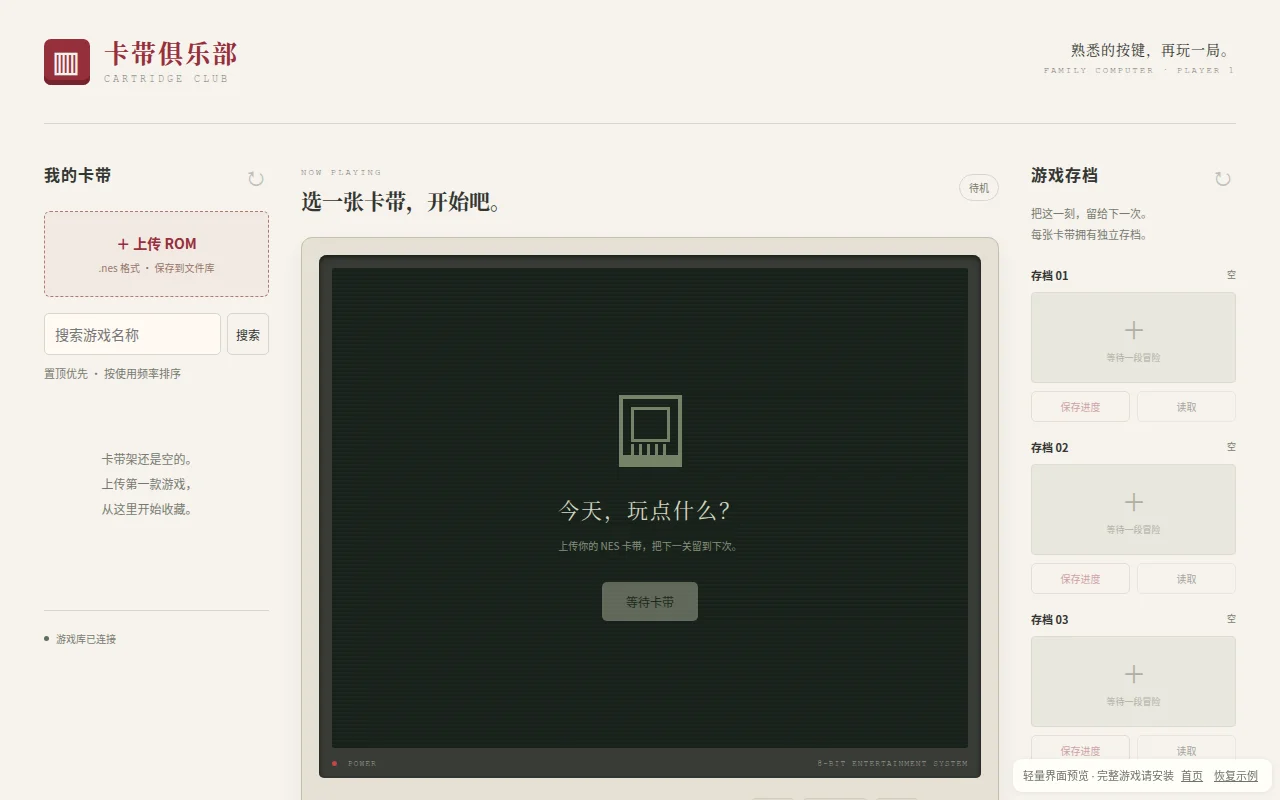
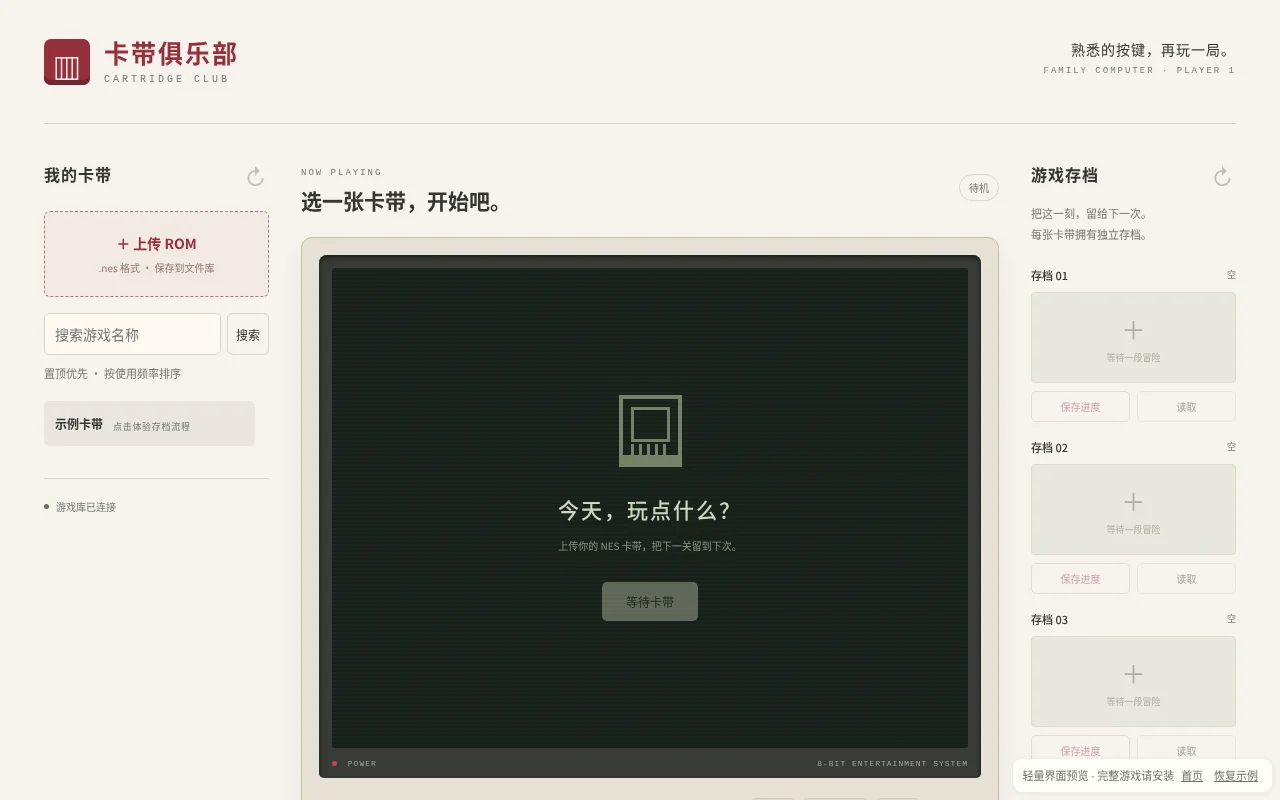
Add cartridge club template

diff --git a/7a07f36858d3a41ce3c6423b/showcase/preview.html b/7a07f36858d3a41ce3c6423b/showcase/preview.html
@@ -35,4 +35,20 @@
 <label id="rename-label">\u6E38\u620F\u540D\u79F0<input id="rename-title" required="" value=""></label>
 <p id="dialog-error" role="alert"></p><div class="dialog-actions"><button type="button" id="dialog-cancel">\u53D6\u6D88</button><button id="dialog-submit">\u4FDD\u5B58\u540D\u79F0</button></div>
 </form></dialog></div>`,bodyClass:""}},actions:{},images:{}};let screen="home",saved={},records=[],note={title:"\u5468\u672B\u7684\u5C0F\u8BA1\u5212",body:"\u53BB\u901B\u4E00\u5BB6\u4E66\u5E97\uFF0C\u518D\u627E\u4E2A\u5730\u65B9\u559D\u676F\u5496\u5561\u3002"},editing=!1,timer=null,seconds=1500;const $=e=>document.querySelector(e),esc=e=>String(e).replace(/[&<>"']/g,t=>({"&":"&amp;","<":"&lt;",">":"&gt;",'"':"&quot;","'":"&#39;"})[t]);function initialNotes(){return[{id:"weekend",title:"\u5468\u672B\u7684\u5C0F\u8BA1\u5212",body:"\u53BB\u901B\u4E00\u5BB6\u4E66\u5E97\uFF0C\u518D\u627E\u4E2A\u5730\u65B9\u559D\u676F\u5496\u5561\u3002",folder:"\u751F\u6D3B",pinned:!0},{id:"ideas",title:"\u60F3\u505A\u7684\u5C0F\u5DE5\u5177",body:"\u8BB0\u4E0B\u7075\u5149\u4E00\u95EA\u7684\u60F3\u6CD5\u3002\u8BD5\u7740\u7F16\u8F91\u8FD9\u7BC7\u7B14\u8BB0\uFF0C\u6216\u8005\u65B0\u5EFA\u4E00\u7BC7\u3002",folder:"\u5DE5\u4F5C",pinned:!1}]}let notes=initialNotes();note=notes[0];function updateNotes(){const e=$("#note-cards");if(!e)return;const t=$("#note-search")?.value.toLowerCase()||"",i=notes.filter(n=>(screen==="\u7F6E\u9876\u7B14\u8BB0"?n.pinned:["\u751F\u6D3B","\u5DE5\u4F5C","\u7075\u611F"].includes(screen)?n.folder===screen:!0)&&(n.title+n.body).toLowerCase().includes(t)).sort((n,a)=>Number(a.pinned)-Number(n.pinned));e.innerHTML=i.map(n=>`<button class="note-card" data-note="${esc(n.id)}"><strong>${n.pinned?"\u2311 ":""}${esc(n.title)}</strong><p>${esc(n.body)}</p><small>${esc(n.folder)} \xB7 \u672C\u9875\u793A\u4F8B</small></button>`).join(""),$("#note-count")&&($("#note-count").textContent=i.length+" \u7BC7\u7B14\u8BB0")}function imageSources(){document.querySelectorAll("[data-preview-image]").forEach(e=>e.src=preview.images[e.dataset.previewImage])}function draw(e="home"){screen=e;const t=preview.states[e]||preview.states.home;document.body.className=t.bodyClass,document.body.innerHTML=saved[e]||t.html,imageSources();for(const a of document.querySelectorAll("canvas"))if(preview.images.scene){const s=new Image;s.onload=()=>{a.width=s.width,a.height=s.height,a.getContext("2d")?.drawImage(s,0,0)},s.src=preview.images.scene}if(preview.name==="neon-coast"){const a=$("#start");a&&(a.disabled=!1,a.textContent="\u67E5\u770B\u9A7E\u9A76\u6307\u5357 \u2197");const s=$("#save-status");s&&(s.textContent="\u8F7B\u91CF\u754C\u9762\u9884\u89C8")}preview.name==="notes"&&$("#note-title")&&($("#note-title").value=note.title,$("#note-body").value=note.body),preview.name==="notes"&&updateNotes(),records.length&&screen!=="new"&&renderRecords(),document.querySelectorAll("dialog[open]").forEach(a=>{a.removeAttribute("open"),a.showModal()});const i=document.createElement("div");i.id="preview-tools",i.style.cssText="position:fixed;z-index:2147483647;bottom:8px;right:8px;padding:7px 10px;border-radius:9px;background:#fffef8f5;color:#70736b;font:11px/1.4 system-ui;box-shadow:0 1px 6px #0001";const n=["neon-coast","downtown-beatdown","7a07f36858d3a41ce3c6423b"].includes(preview.name);i.innerHTML=`${n?"\u8F7B\u91CF\u754C\u9762\u9884\u89C8 \xB7 \u5B8C\u6574\u6E38\u620F\u8BF7\u5B89\u88C5":"\u793A\u4F8B\u4F53\u9A8C \xB7 \u6570\u636E\u4EC5\u4FDD\u7559\u5728\u672C\u9875"} <button id="preview-home" type="button">\u9996\u9875</button> <button id="preview-reset" type="button">\u6062\u590D\u793A\u4F8B</button>`,i.querySelectorAll("button").forEach(a=>a.style.cssText="border:0;background:transparent;color:inherit;text-decoration:underline;cursor:pointer;font:inherit;padding:2px 4px"),document.body.append(i),document.querySelectorAll("button").forEach(a=>{a.id.startsWith("preview-")||a.hasAttribute("data-preview-remove")||a.form&&a.type==="submit"||a.matches("[data-close],.close,.close-button,[aria-label^=\u5173\u95ED],.tick,.check,.favorite-button,[data-date],[data-template],[data-note],[data-view=all],[data-nav=today],[data-nav=journey],[data-tab=matrix],[data-quick-ledger],[data-event-template],[data-starter-title]")||["pin-note","delete-note","notes-back","timer-reset","timer-toggle","start-focus","save-task"].includes(a.id)||["\u53D6\u6D88","\u5173\u95ED","\u8FD4\u56DE","\u6DFB\u52A0\u5230\u4ECA\u5929","\u4FDD\u5B58\u8BB0\u5F55","\u521B\u5EFA\u6D3B\u52A8","\u4FDD\u5B58\u8FD9\u53E5\u8BDD"].includes(a.textContent.trim())||preview.name==="neon-coast"&&a.id==="start"||Object.keys(preview.actions).some(o=>o.startsWith("text:")?a.textContent.trim()===o.slice(5):a.matches(o))||(a.disabled=!0,a.title="\u5B8C\u6574\u529F\u80FD\u8BF7\u5B89\u88C5\u540E\u4F53\u9A8C")}),preview.name==="7a07f36858d3a41ce3c6423b"&&document.querySelectorAll("input[type=file]").forEach(a=>{a.disabled=!0,a.title="\u4E0A\u4F20\u5361\u5E26\u8BF7\u5B89\u88C5\u540E\u4F53\u9A8C"})}function renderRecords(){if($("#preview-records"))return;const e=document.createElement("section");e.id="preview-records",e.className="panel",e.style.cssText="margin:16px 0;padding:16px;border:1px solid #deded8;border-radius:12px;background:#fff",e.innerHTML='<h3 style="margin:0 0 12px">\u521A\u521A\u6DFB\u52A0</h3>'+records.map((i,n)=>`<div style="padding:10px 0;border-top:1px solid #eee"><strong>${esc(i.title)}</strong><p>${esc(i.detail)}</p><button type="button" data-preview-remove="${n}">\u5220\u9664</button></div>`).join(""),($("#task-list")||$(".quadrant-content")||$("main .content")||$("main")||$("#app"))?.prepend(e)}function remember(){document.querySelector("#preview-tools")?.remove(),saved[screen]=document.body.innerHTML}function reset(){notes=initialNotes(),clearInterval(timer),timer=null,seconds=1500,saved={},records=[],editing=!1,note=notes[0],draw()}function submit(e){if(e.reportValidity&&!e.reportValidity())return;const t=[...e.querySelectorAll("input:not([type=hidden]):not([type=radio]):not([type=checkbox]),textarea,select")],i=t.find(a=>a.name==="title"||a.name==="name"||a.id.includes("title"))?.value||t.find(a=>a.value.trim())?.value||"\u65B0\u7684\u8BB0\u5F55",n=t.filter(a=>a.value&&a.value!==i).map(a=>a.value).join(" \xB7 ");records.push({title:i,detail:n}),draw("home")}function toggleTask(e){const t=e.textContent!=="\u2713";e.textContent=t?"\u2713":"",e.setAttribute("aria-pressed",String(t)),e.closest(".task,.task-row,.task-card,article")?.classList.toggle("done",t);const i=$("#count");i&&(i.textContent=String(document.querySelectorAll(".tick[aria-pressed=true]").length))}function startTimer(){if(clearInterval(timer),$("#timer-toggle")?.textContent==="\u6682\u505C\u4E13\u6CE8"){$("#timer-toggle").textContent="\u7EE7\u7EED\u4E13\u6CE8",timer=null;return}$("#timer-toggle")&&($("#timer-toggle").textContent="\u6682\u505C\u4E13\u6CE8"),timer=setInterval(()=>{seconds=Math.max(0,seconds-1),$("#timer-display")&&($("#timer-display").textContent=String(Math.floor(seconds/60)).padStart(2,"0")+":"+String(seconds%60).padStart(2,"0")),seconds||clearInterval(timer)},1e3)}document.addEventListener("submit",e=>{e.preventDefault(),submit(e.target)}),document.addEventListener("input",e=>{if(e.target.matches("#note-title,#note-body")&&(note.title=$("#note-title").value,note.body=$("#note-body").value,editing=!0,updateNotes(),$("#save-state")&&($("#save-state").textContent="\u5DF2\u4FDD\u5B58")),e.target.matches("#note-search")){updateNotes();return}if(e.target.matches("input[type=search]")){const t=e.target.value.toLowerCase();document.querySelectorAll(".note-card,.photo-card").forEach(i=>i.hidden=!i.textContent.toLowerCase().includes(t))}}),document.addEventListener("click",e=>{const t=e.target.closest("button,a,[data-note],[data-date]");if(t){if(t.id==="preview-reset"){reset();return}if(t.id==="preview-home"){remember(),draw();return}if(t.tagName==="A"&&e.preventDefault(),t.dataset.previewRemove!==void 0){records.splice(Number(t.dataset.previewRemove),1),draw(screen);return}if(t.matches("[data-close],.close,.close-button,[aria-label^=\u5173\u95ED]")||["\u53D6\u6D88","\u5173\u95ED","\u8FD4\u56DE"].includes(t.textContent.trim())){draw("home");return}if(t.id==="save-task"||["\u6DFB\u52A0\u5230\u4ECA\u5929","\u4FDD\u5B58\u8BB0\u5F55","\u521B\u5EFA\u6D3B\u52A8","\u4FDD\u5B58\u8FD9\u53E5\u8BDD"].includes(t.textContent.trim())){e.preventDefault(),submit(t.closest("form")||t.closest("[role=dialog]")||t.closest(".modal")||document.body);return}if(t.form&&t.type==="submit"){e.preventDefault(),submit(t.form);return}if(t.matches(".tick,.check")){toggleTask(t);return}if(preview.name==="sunlit-album"&&t.matches(".photo-open")){const i=t.querySelector("img")?.dataset.previewImage,n=t.closest("article")?.querySelector("h3,h2")?.textContent;remember(),draw("photo");const a=document.querySelector(".viewer .photo-stage img,.viewer .image-stage img,.viewer-main img");a&&i&&(a.src=preview.images[i]),n&&document.querySelector(".viewer-heading strong")&&(document.querySelector(".viewer-heading strong").textContent=n);return}if(t.matches(".favorite-button")){t.classList.toggle("active"),t.setAttribute("aria-pressed",String(t.classList.contains("active"))),t.style.color=t.classList.contains("active")?"#bd6555":"";return}if(t.id==="pin-note"){note.pinned=!note.pinned,updateNotes(),t.textContent=note.pinned?"\u53D6\u6D88\u7F6E\u9876":"\u7F6E\u9876";return}if(t.id==="delete-note"){notes=notes.filter(i=>i!==note),draw();return}if(t.id==="notes-back"){draw();return}if(t.id==="timer-reset"){clearInterval(timer),seconds=1500,$("#timer-display")&&($("#timer-display").textContent="25:00"),$("#timer-toggle")&&($("#timer-toggle").textContent="\u5F00\u59CB\u4E13\u6CE8");return}if(t.id==="timer-toggle"||t.id==="start-focus"){startTimer();return}if(t.dataset.date){document.querySelectorAll("[data-date]").forEach(i=>i.classList.toggle("chosen",i===t));return}if(preview.name==="neon-coast"&&t.id==="start"){draw("\u9A7E\u9A76\u6307\u5357");return}if(preview.name==="notes"&&t.matches("[data-template],[data-note]")){t.hasAttribute("data-template")?(note={id:String(Date.now()),title:"\u672A\u547D\u540D\u7B14\u8BB0",body:"",folder:"\u751F\u6D3B",pinned:!1},notes.unshift(note),editing=!0,draw("new")):(note=notes.find(i=>i.id===t.dataset.note)||notes[0],draw("note"));return}for(const[i,n]of Object.entries(preview.actions))if(i.startsWith("text:")?t.textContent.trim()===i.slice(5):t.matches(i)){remember(),draw(n);return}if(t.matches("[data-view=all],[data-nav=today],[data-nav=journey],[data-tab=matrix],.brand")){remember(),draw();return}if(t.matches("[data-quick-ledger],[data-event-template],[data-starter-title]")){draw("new");return}if(t.matches('a[href^="#"]')){draw();return}}}),document.addEventListener("keydown",e=>{e.key==="Escape"&&draw(),e.key==="Enter"&&e.target.tagName==="INPUT"&&e.target.form&&(e.preventDefault(),submit(e.target.form))}),draw();
+</script><script>
+// An interactive, in-memory demonstration; no ROM or application data is included.
+function setupDemo() {
+ const games=document.querySelector('#games'); if(!games)return;
+ games.innerHTML='<button class="game" id="demo-game"><strong>示例卡带</strong><small>点击体验存档流程</small></button>';
+ const notice=document.querySelector('#notice'); if(notice) notice.textContent='示例体验：选择卡带后可试用保存和读取。';
+ document.querySelector('#demo-game').onclick=()=>{
+  document.querySelector('#game-title').textContent='示例卡带';
+  document.querySelector('#play-state').textContent='已暂停';
+  document.querySelector('#overlay-title').textContent='示例卡带已就绪';
+  document.querySelector('#overlay-description').textContent='示例仅展示操作，安装后上传自己的 ROM。';
+  for(const b of document.querySelectorAll('[data-save]')) { b.disabled=false; b.onclick=()=>{b.textContent='覆盖保存';b.closest('article').querySelector('time').textContent='刚刚';b.closest('article').querySelector('[data-load]').disabled=false;notice.textContent='示例进度已保存于本页。';}; }
+  for(const b of document.querySelectorAll('[data-load]')) b.onclick=()=>notice.textContent='已读取本页示例存档。';
+ };
+}
+setupDemo(); document.addEventListener('click',e=>{if(e.target.closest('#preview-home,#preview-reset'))setTimeout(setupDemo,0)});
 </script></body></html>
